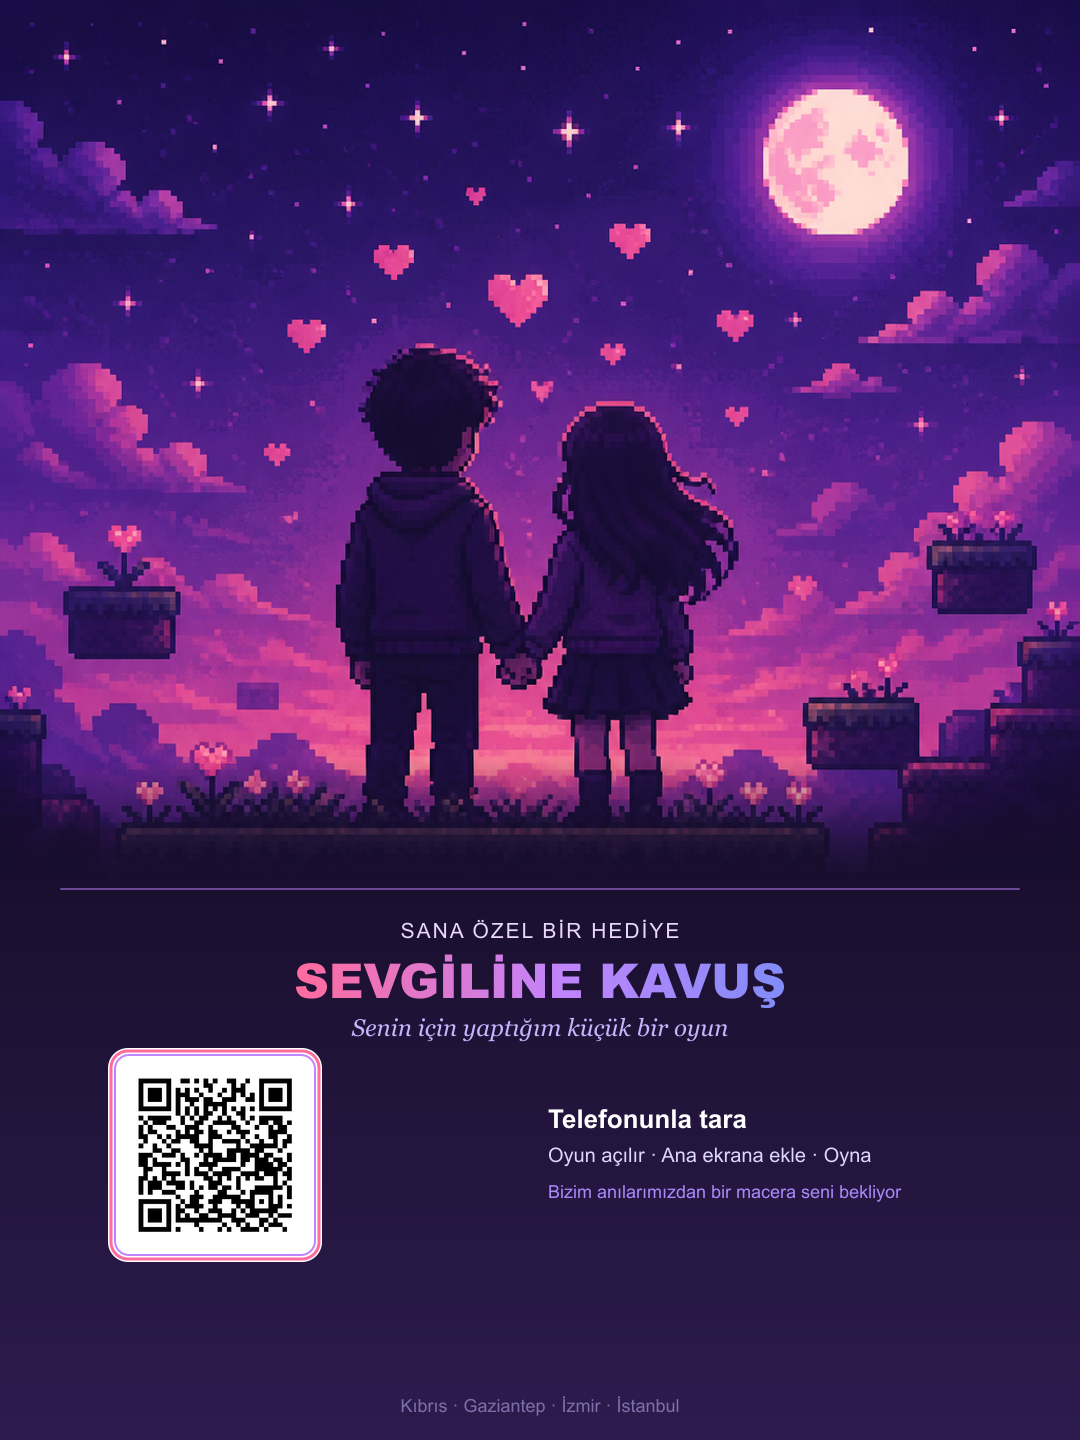
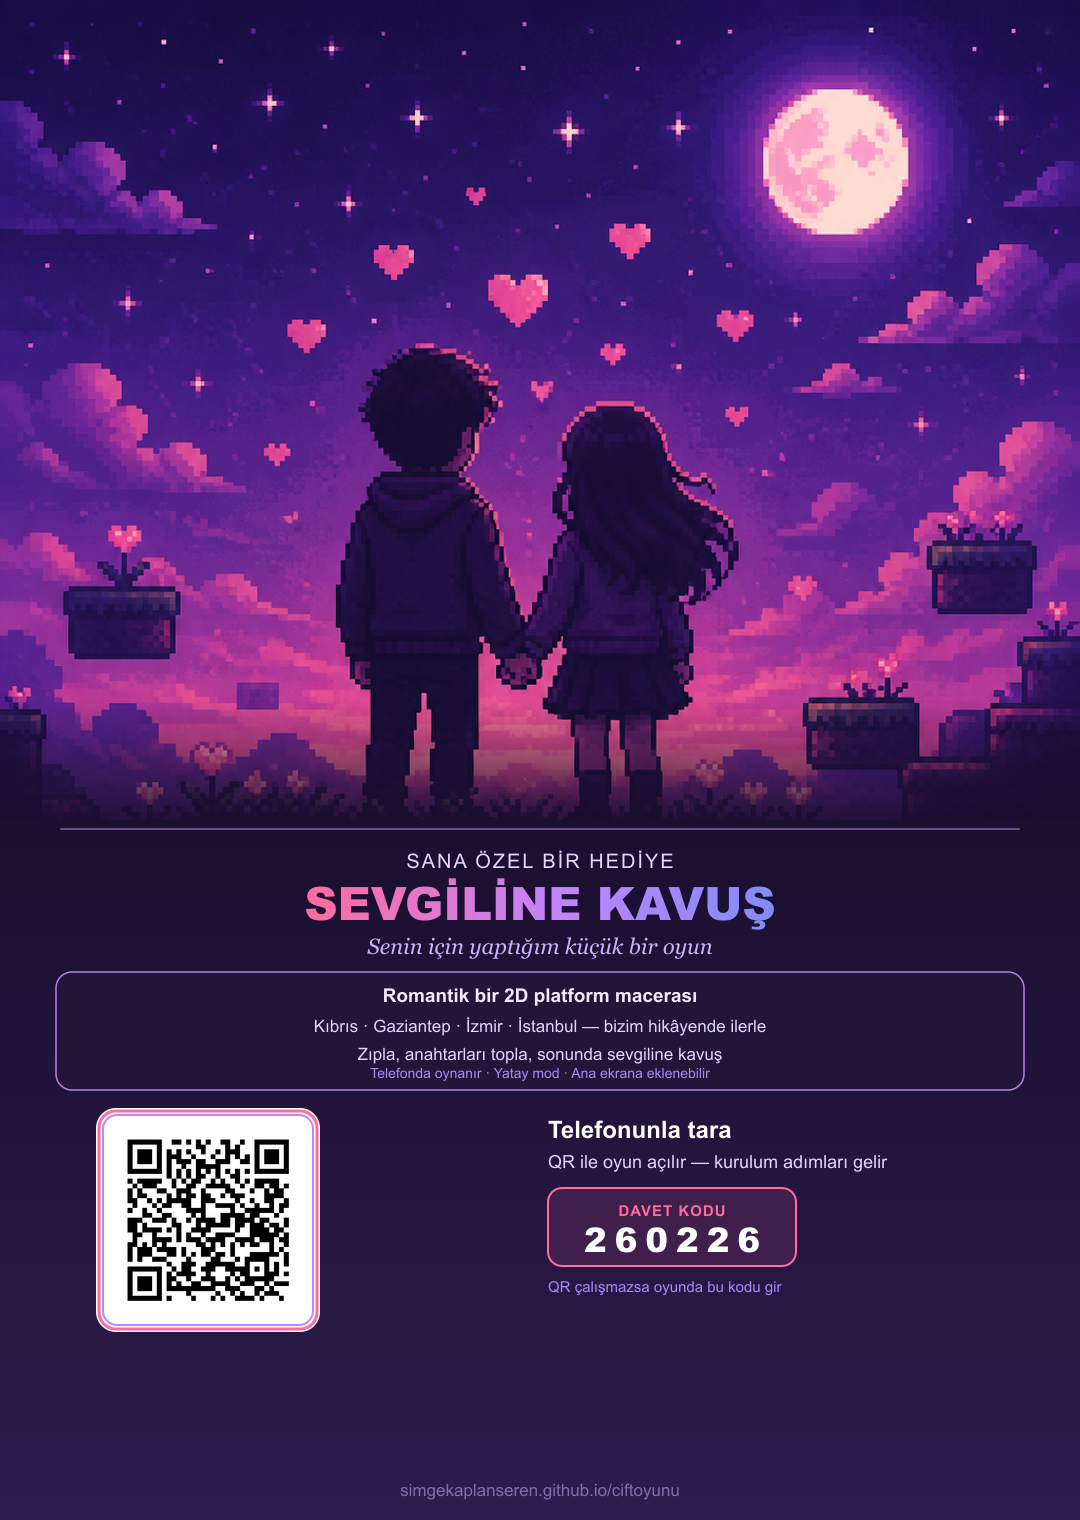
Afişe oyun açıklaması ve davet kodu eklendi

diff --git a/scripts/make-afis-qr.js b/scripts/make-afis-qr.js
@@ -2,11 +2,13 @@ import sharp from 'sharp';
 import { existsSync } from 'fs';
 import path from 'path';
 import { fileURLToPath } from 'url';
+import { ACCESS } from '../js/config/access.js';
 
 const root = path.dirname(path.dirname(fileURLToPath(import.meta.url)));
 const poster = path.join(root, 'assets/images/sevgiline-kavus-afis-ust.png');
 const qr = path.join(root, 'assets/images/oyun-qr.png');
 const out = path.join(root, 'assets/images/sevgiline-kavus-afis-qr.png');
+const inviteCode = ACCESS.code;
 
 if (!existsSync(poster) || !existsSync(qr)) {
   console.error('Gorsel veya QR bulunamadi');
@@ -14,8 +16,8 @@ if (!existsSync(poster) || !existsSync(qr)) {
 }
 
 const W = 1080;
-const H = 1440;
-const ART_H = 880;
+const H = 1520;
+const ART_H = 820;
 const PANEL_H = H - ART_H;
 
 const art = await sharp(poster)
@@ -51,25 +53,33 @@ const panel = Buffer.from(
     <rect width="${W}" height="${PANEL_H}" fill="url(#bg)"/>
     <rect x="60" y="8" width="${W - 120}" height="2" rx="1" fill="#c084fc" opacity="0.5"/>
 
-    <text x="${W / 2}" y="58" text-anchor="middle" font-family="Arial, sans-serif" font-size="21" fill="#e9d5ff" letter-spacing="2">SANA ÖZEL BİR HEDİYE</text>
+    <text x="${W / 2}" y="48" text-anchor="middle" font-family="Arial, sans-serif" font-size="20" fill="#e9d5ff" letter-spacing="2">SANA ÖZEL BİR HEDİYE</text>
+    <text x="${W / 2}" y="100" text-anchor="middle" font-family="Arial Black, Arial, sans-serif" font-size="46" font-weight="900" fill="url(#title)">SEVGİLİNE KAVUŞ</text>
+    <text x="${W / 2}" y="134" text-anchor="middle" font-family="Georgia, serif" font-size="22" font-style="italic" fill="#c4b5fd">Senin için yaptığım küçük bir oyun</text>
 
-    <text x="${W / 2}" y="118" text-anchor="middle" font-family="Arial Black, Arial, sans-serif" font-size="48" font-weight="900" fill="url(#title)">SEVGİLİNE KAVUŞ</text>
+    <rect x="56" y="152" width="${W - 112}" height="118" rx="16" fill="#241538" stroke="#c084fc" stroke-width="1.5" opacity="0.95"/>
+    <text x="${W / 2}" y="182" text-anchor="middle" font-family="Arial, sans-serif" font-size="19" font-weight="700" fill="#f3e8ff">Romantik bir 2D platform macerası</text>
+    <text x="${W / 2}" y="212" text-anchor="middle" font-family="Arial, sans-serif" font-size="17" fill="#ddd6fe">Kıbrıs · Gaziantep · İzmir · İstanbul — bizim hikâyende ilerle</text>
+    <text x="${W / 2}" y="240" text-anchor="middle" font-family="Arial, sans-serif" font-size="17" fill="#ddd6fe">Zıpla, anahtarları topla, sonunda sevgiline kavuş</text>
+    <text x="${W / 2}" y="258" text-anchor="middle" font-family="Arial, sans-serif" font-size="14" fill="#a78bfa">Telefonda oynanır · Yatay mod · Ana ekrana eklenebilir</text>
 
-    <text x="${W / 2}" y="156" text-anchor="middle" font-family="Georgia, serif" font-size="24" font-style="italic" fill="#c4b5fd">Senin için yaptığım küçük bir oyun</text>
+    <text x="548" y="318" font-family="Arial, sans-serif" font-size="24" font-weight="700" fill="#ffffff">Telefonunla tara</text>
+    <text x="548" y="348" font-family="Arial, sans-serif" font-size="18" fill="#ddd6fe">QR ile oyun açılır — kurulum adımları gelir</text>
 
-    <text x="548" y="248" font-family="Arial, sans-serif" font-size="26" font-weight="700" fill="#ffffff">Telefonunla tara</text>
-    <text x="548" y="282" font-family="Arial, sans-serif" font-size="20" fill="#ddd6fe">Oyun açılır · Ana ekrana ekle · Oyna</text>
-    <text x="548" y="318" font-family="Arial, sans-serif" font-size="18" fill="#a78bfa">Bizim anılarımızdan bir macera seni bekliyor</text>
+    <rect x="548" y="368" width="248" height="78" rx="14" fill="#ff6b9d" fill-opacity="0.12" stroke="#ff6b9d" stroke-width="2"/>
+    <text x="672" y="396" text-anchor="middle" font-family="Arial, sans-serif" font-size="15" font-weight="700" fill="#ff6b9d" letter-spacing="1">DAVET KODU</text>
+    <text x="672" y="432" text-anchor="middle" font-family="Arial Black, Arial, sans-serif" font-size="34" font-weight="900" fill="#ffffff" letter-spacing="8">${inviteCode}</text>
+    <text x="548" y="472" font-family="Arial, sans-serif" font-size="15" fill="#a78bfa">QR çalışmazsa oyunda bu kodu gir</text>
 
-    <text x="${W / 2}" y="${PANEL_H - 28}" text-anchor="middle" font-family="Arial, sans-serif" font-size="18" fill="#7c6faa">Kıbrıs  ·  Gaziantep  ·  İzmir  ·  İstanbul</text>
+    <text x="${W / 2}" y="${PANEL_H - 24}" text-anchor="middle" font-family="Arial, sans-serif" font-size="17" fill="#7c6faa">simgekaplanseren.github.io/ciftoyunu</text>
   </svg>`,
 );
 
-const QR_SIZE = 190;
+const QR_SIZE = 200;
 const QR_PAD = 12;
 const QR_BOX = QR_SIZE + QR_PAD * 2;
-const qrX = 108;
-const qrY = ART_H + 168;
+const qrX = 96;
+const qrY = ART_H + 288;
 
 const qrFrame = Buffer.from(
   `<svg width="${QR_BOX}" height="${QR_BOX}" xmlns="http://www.w3.org/2000/svg">
@@ -95,3 +105,4 @@ await sharp({
   .toFile(out);
 
 console.log('Kaydedildi:', out);
+console.log('Davet kodu:', inviteCode);

diff --git a/qr-afis.html b/qr-afis.html
@@ -98,13 +98,14 @@
 <body>
   <div class="poster">
     <h1>SEVGİLİNE KAVUŞ ❤</h1>
-    <p class="sub">Bir aşk macerası — sana özel oyun</p>
+    <p class="sub">Romantik bir 2D platform macerası — sana özel hediye</p>
     <img src="assets/images/sevgiline-kavus-afis-qr.png" alt="Sevgiline Kavuş afişi QR kodlu" style="width:100%;max-width:420px;border-radius:16px;margin-bottom:1rem;">
+    <p class="scan">Davet kodu: <strong>260226</strong></p>
     <ol>
-      <li>Kameranla veya QR uygulamasıyla kodu okut</li>
-      <li>Açılan sayfadaki adımları izle</li>
-      <li><strong>Oyunu Aç</strong> deyip ana ekrana ekle</li>
-      <li>Telefonu yana çevir ve oyna!</li>
+      <li>Kameranla QR kodu okut (veya linke git)</li>
+      <li>Açılan sayfada <strong>Oyunu Aç</strong> de</li>
+      <li>Davet kodu sorarsa: <strong>260226</strong></li>
+      <li>Ana ekrana ekle, telefonu yana çevir ve oyna!</li>
     </ol>
     <p class="foot">simgekaplanseren.github.io/ciftoyunu</p>
   </div>
